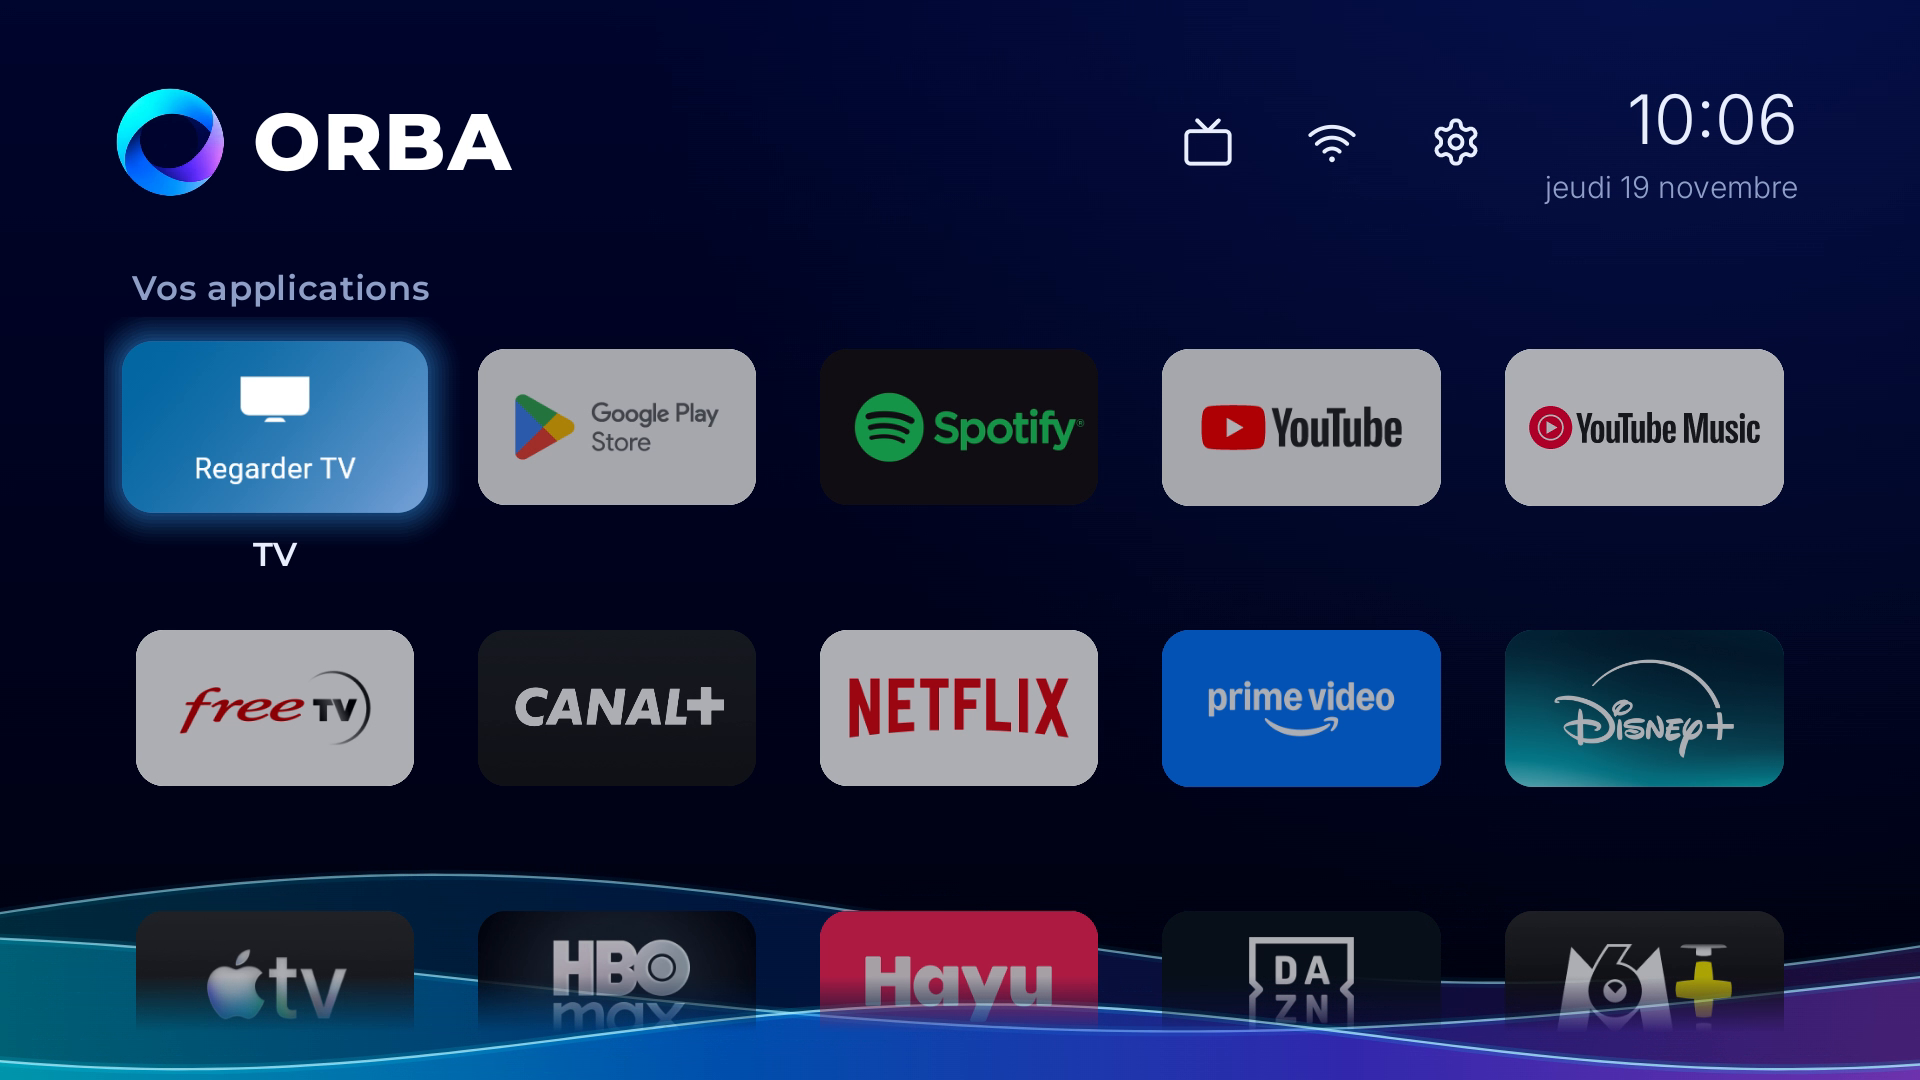
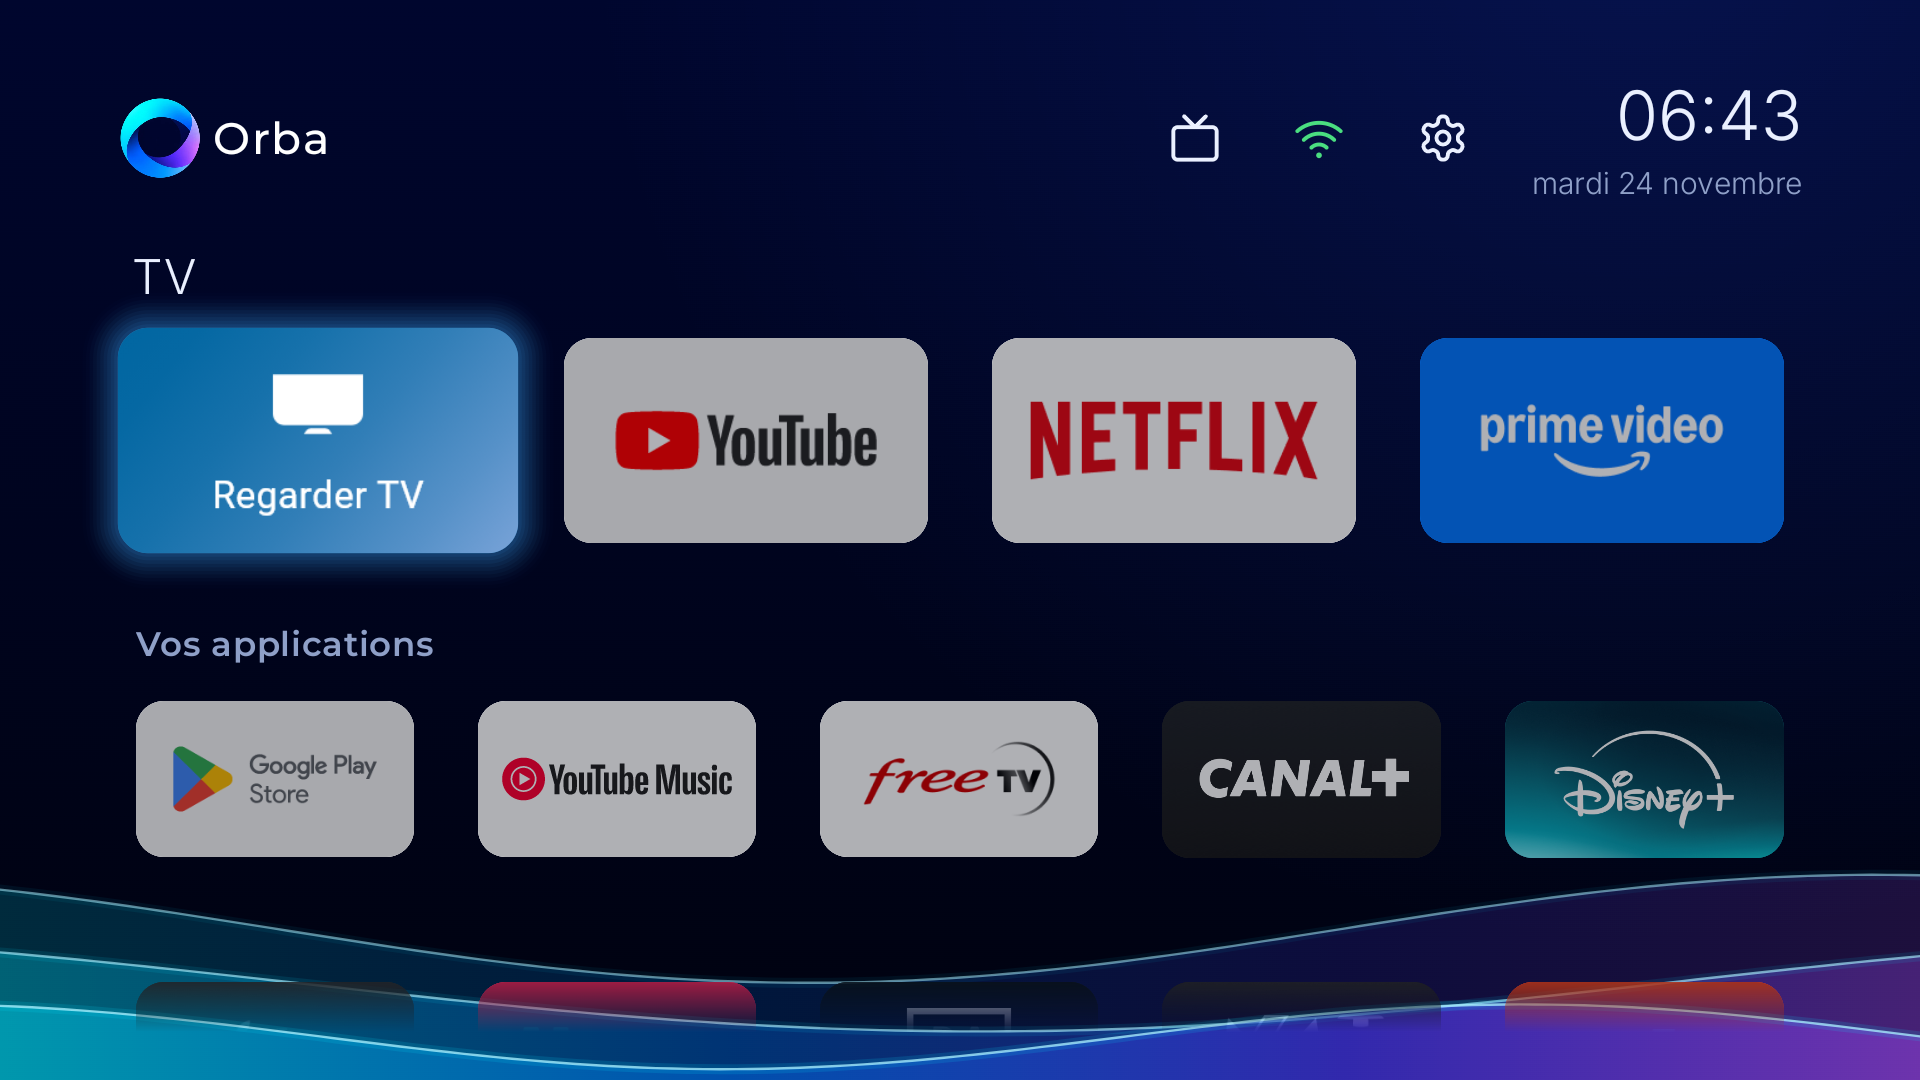
README: themes (3.11), settings table, new demo and captures

diff --git a/README.md b/README.md
@@ -23,7 +23,7 @@ Orba replaces the busy Google TV and Android TV home screen with a calm, readabl
 **your apps**, nothing else. No ads, no recommendations, no "Watch next" rows.
 
 <p align="center">
-  <img src="docs/demo.gif" alt="Demo: browsing Orba and opening the Sources button" width="800">
+  <img src="docs/demo.gif" alt="Demo: changing the theme, browsing Orba and opening a tile menu" width="800">
 </p>
 
 ## New in version 3.12
@@ -34,6 +34,22 @@ Orba replaces the busy Google TV and Android TV home screen with a calm, readabl
 <p align="center">
   <img src="docs/capture-langues.png" alt="Orba settings: choosing the language" width="440">
   <img src="docs/capture-arabe.png" alt="Orba in Arabic, mirrored right to left" width="440">
+</p>
+
+## Version 3.11: themes
+
+Three looks, in Orba settings → *Theme*, applied at once (the screensaver follows):
+
+- **Orba**: the plain original look.
+- **Glossy** (default): translucent glass, glossy highlights and a cyan-to-violet glow that gently breathes.
+- **OLED**: deep black and amber, without waves.
+
+Long app names scroll instead of being cut.
+
+<p align="center">
+  <img src="docs/capture-theme-orba.png" alt="Orba theme" width="290">
+  <img src="docs/capture-theme-glossy.png" alt="Glossy theme" width="290">
+  <img src="docs/capture-theme-oled.png" alt="OLED theme" width="290">
 </p>
 
 ## Version 3.10
@@ -89,11 +105,15 @@ long-press OK on any tile → *Orba settings…*. Every choice applies immediate
 
 | Setting | Options |
 |---|---|
+| Theme | Orba · Glossy · OLED |
+| Language | Automatic · Français · English · Español · Italiano · العربية |
 | Tiles per row | 4, 5, 6 or 7 |
 | Background | Animated waves · Still waves · Pure black (OLED) |
 | Selection glow | App colour · Orba cyan |
 | Screensaver | Off · after 5, 10, 20 or 30 min |
 | Preview screensaver | Instant preview |
+| On start-up | Orba only, or an app to open once after the TV starts |
+| Hidden apps | Bring a hidden app back |
 
 A short press on the gear still opens the TV's own settings.
 
@@ -171,7 +191,7 @@ Turn the service off in *Settings → System → Accessibility*, or uninstall Or
 
 | TV / box | System | Status |
 |---|---|---|
-| **Philips 65OLED908/12** | Google TV 14 | ✅ Tested every day: Home key, native Sources panel, screensaver, settings, English and French |
+| **Philips 65OLED908/12** | Google TV 14 | ✅ Tested every day: Home key, native Sources panel, screensaver, settings, themes. The 5 languages were checked on screen |
 | Other Google TV / Android TV sets and boxes (Sony, TCL, Hisense, Xiaomi, NVIDIA Shield, Chromecast with Google TV…) | Android 8.0 or later | ❔ Not tested yet. Orba is built for them (stock launchers `launcherx`, `tvlauncher`, `leanbacklauncher` and Xiaomi's `com.mitv.tvhome` are recognised), but nobody has reported back |
 
 *Using Orba on another model? Tell us how it went in [Discussions](../../discussions) or with a
@@ -214,9 +234,11 @@ Ideas, bug reports and translations are welcome: see [CONTRIBUTING.md](CONTRIBUT
 | Path | Role |
 |---|---|
 | `src/fr/maison/accueil/MainActivity.java` | Home screen: header, grid, glow, menus, app info, settings, animated background |
+| `src/fr/maison/accueil/Views.java` | Themes and drawing: glass, glow, glossy highlights, menu options |
+| `src/fr/maison/accueil/Langue.java` | Language: automatic or chosen, right-to-left for Arabic |
 | `src/fr/maison/accueil/Veille.java`, `VeilleActivity.java`, `OrbaDream.java` | Animated screensaver (and Android screensaver) |
 | `src/fr/maison/accueil/ToucheAccueilService.java` | Accessibility service: Home key and replacing the stock home screen |
-| `res/` | Icon, banner, logo, Settings icon, EN/FR strings |
+| `res/` | Icon, banner, logo, Settings icon, texts in the 5 languages (`values*/strings.xml`) |
 | `assets/` | Inter and Montserrat fonts (OFL licence) |
 | `source-logo/` | Original Orba logo (image and SVG) |
 | `build.ps1`, `icone.ps1`, `Logo.cs` | APK build and artwork generation |
